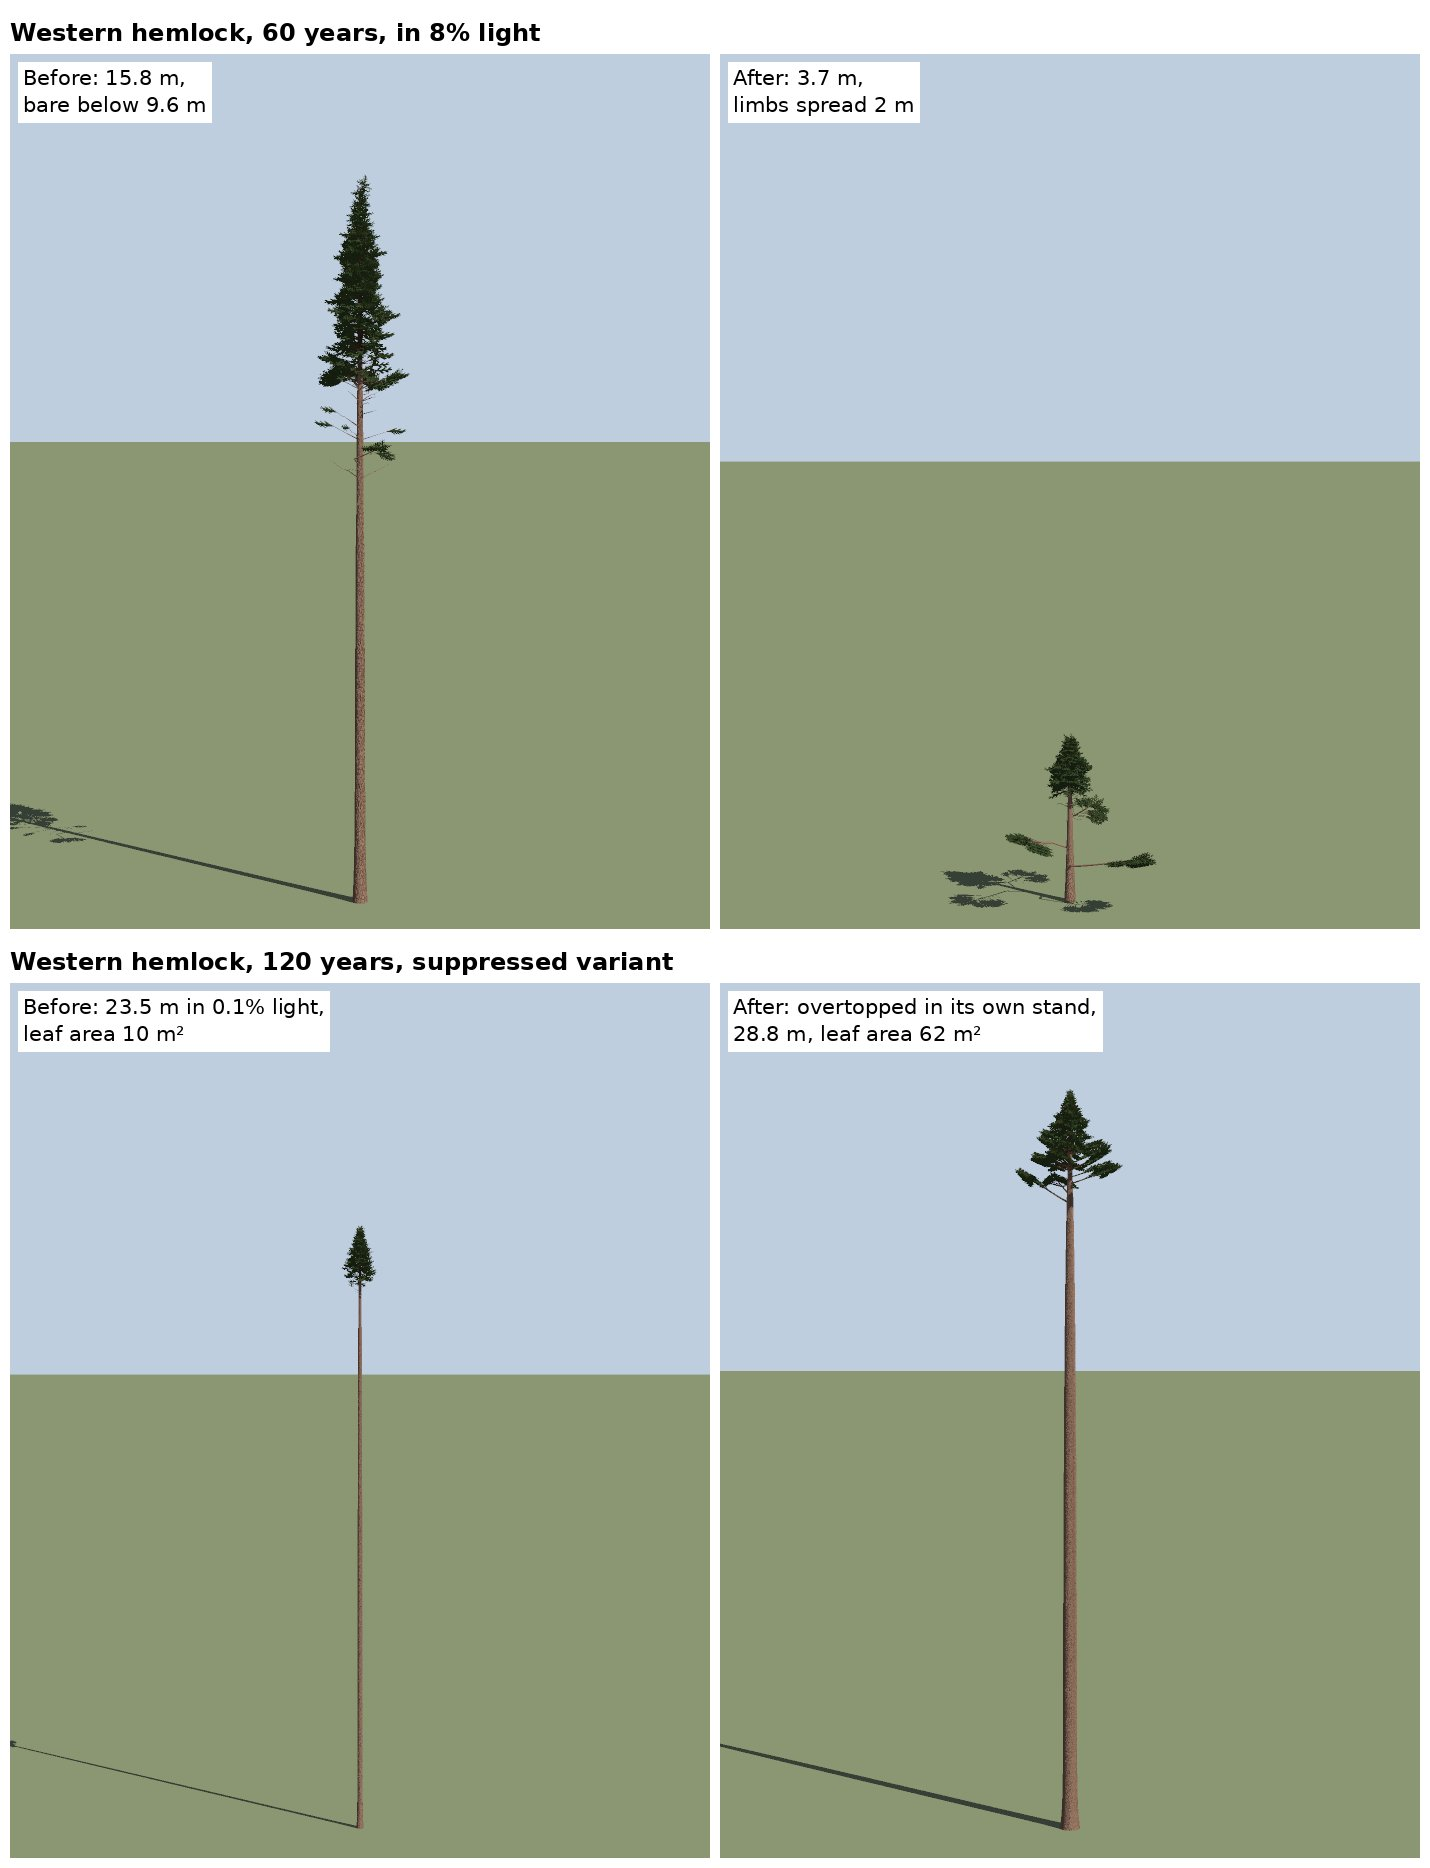
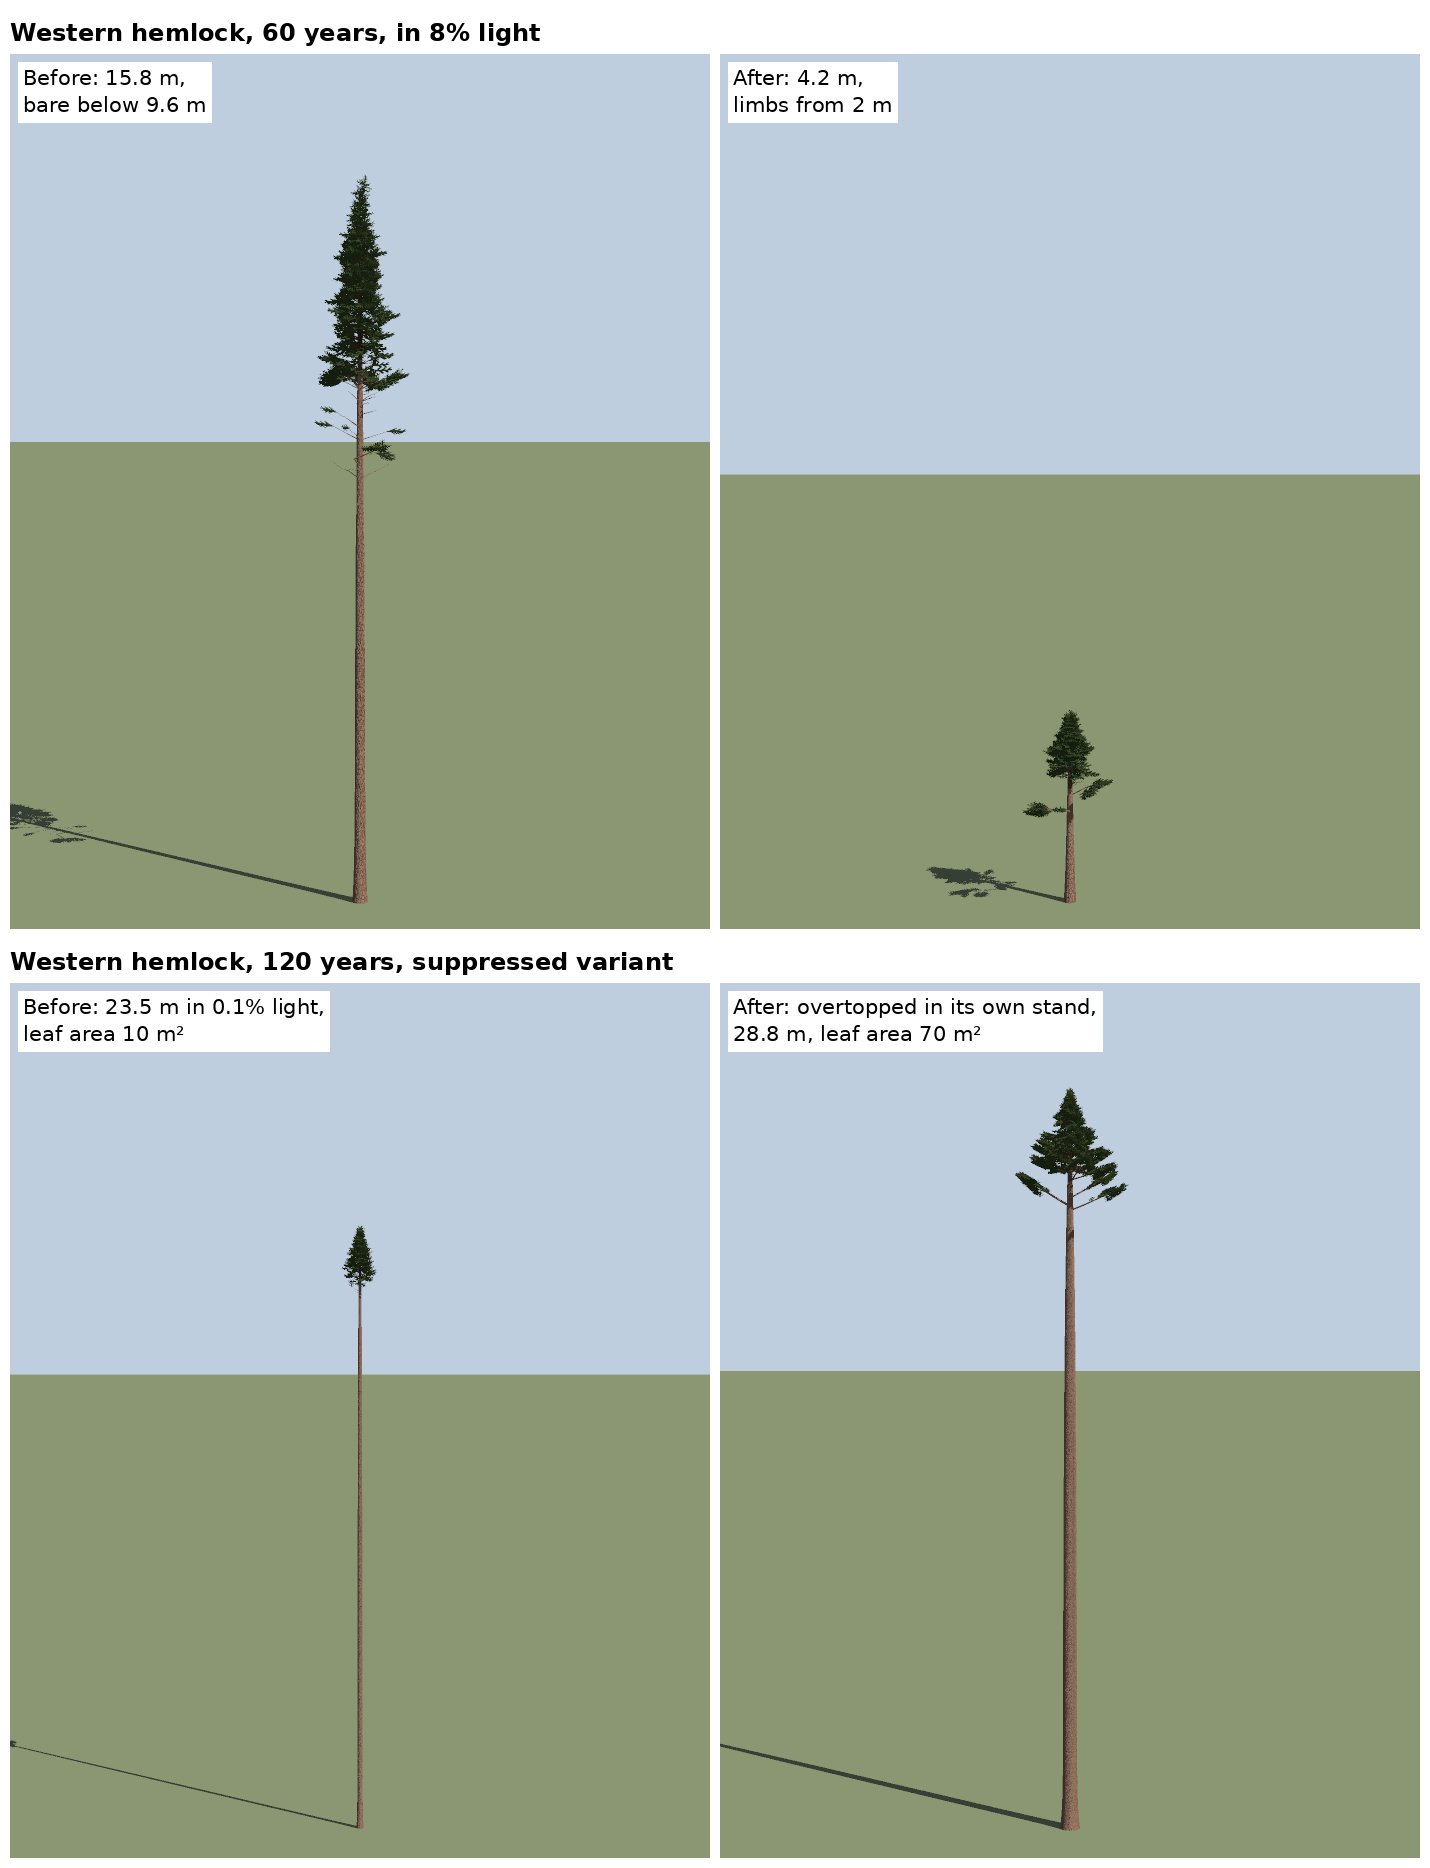
Shade growth: the leader's floor fades with the plant's best light, so a tree whose top is in the sun grows its leader as before (whitebark pine, incense cedar, subalpine fir and yew back within their references)

diff --git a/crates/plantgen/src/lib.rs b/crates/plantgen/src/lib.rs
@@ -1573,17 +1573,19 @@ pub mod venation;
 /// Mountain juniper's) feeds little.
 ///
 /// 198: growth in deep shade (`pinidae` revision 16, the light tool's new
-/// `top`): a conifer's leader grows with its light, saturating, and
-/// nothing in the dark, where `leader_shade` kept it rising at a share of
-/// its open rate in any shade; a shoot starves by its light against its
-/// plant's best-lit one's (correlative inhibition), and under a floor of a
-/// quarter of `shade_death` however shaded the whole plant. Under a closed
-/// canopy a hemlock was a bare pole rising at half its open rate; in 8%
-/// light it is now 3.7 m at 60 years with limbs from 0.8 m. And the
-/// `suppressed` setting is a tree overtopped in its own stand (its like's
-/// crowns around it as `interior`'s, and crowns 30% taller over it), where
-/// it was a dense medium to 30 m from the ground, in which a conifer grew
-/// a leafless pole and a broadleaf died: a suppressed Douglas-fir is 29 m
-/// at 120 years with a living crown. Open- and stand-grown trees grow
-/// within 2% of before.
+/// `top`, the light of the plant's best-lit module): a conifer's leader
+/// floor, `leader_shade`, fades with `top` below half the sky's light, so
+/// on a plant shaded all over the leader's growth saturates with light
+/// and is nothing in the dark, where the floor kept it rising at a share
+/// of its open rate in any shade; a shoot starves by its light against
+/// `top` (correlative inhibition), and under a floor of a quarter of
+/// `shade_death` however shaded the whole plant. Under a closed canopy a
+/// hemlock was a bare pole rising at half its open rate; in 8% light it
+/// is now 4.2 m at 60 years with limbs from 2 m. And the `suppressed`
+/// setting is a tree overtopped in its own stand (its like's crowns
+/// around it as `interior`'s, and crowns 30% taller over it), where it
+/// was a dense medium to 30 m from the ground, in which a conifer grew a
+/// leafless pole and a broadleaf died: a suppressed Douglas-fir is 30 m
+/// at 120 years with a living crown. Open- and stand-grown trees grow as
+/// tall as before, with leaf area within 3%.
 pub const GENERATOR_REVISION: u32 = 198;
